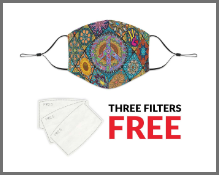
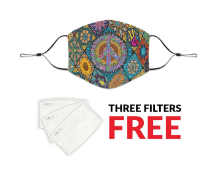
fix ocu assets

Changed region(s): [[0.0, 0.0, 1.0, 1.0]]

diff --git a/ocu.html b/ocu.html
@@ -21,11 +21,11 @@
             </div>
             <div class="order-wrapper" >
                 <div class="items-wrapper" >
-                  <img src="/assets/ocu/mainmask1@2x.png" alt="Facemasks Peace Pattern" class="front-img" id="front-image" >
+                  <img src="/assets/ocu/FacemasksPeacePattern2x.png" alt="Facemasks Peace Pattern" class="front-img" id="front-image" >
                   <div class="menu-wrapper" >
                     <label class="img-button">
                       <input type="radio" id="thumbnail" name="thumbnail-radio" value="0" />
-                      <img src="/assets/ocu/mainmask1@2x.png" alt="Facemasks Peace Pattern">
+                      <img src="/assets/ocu/FacemasksPeacePattern2x.png" alt="Facemasks Peace Pattern">
                     </label>
                     <label class="img-button">
                       <input type="radio" id="thumbnail" name="thumbnail-radio" value="1"/>

diff --git a/script/ocu.js b/script/ocu.js
@@ -9,7 +9,7 @@ const menuWrapper = document.querySelector('.menu-wrapper')
 
 const itemsArray = [
     {
-        src: "/assets/ocu/mainmask1@2x.png",
+        src: "/assets/ocu/FacemasksPeacePattern2x.png",
         detail: "Peace Pattern"
     },
     {
